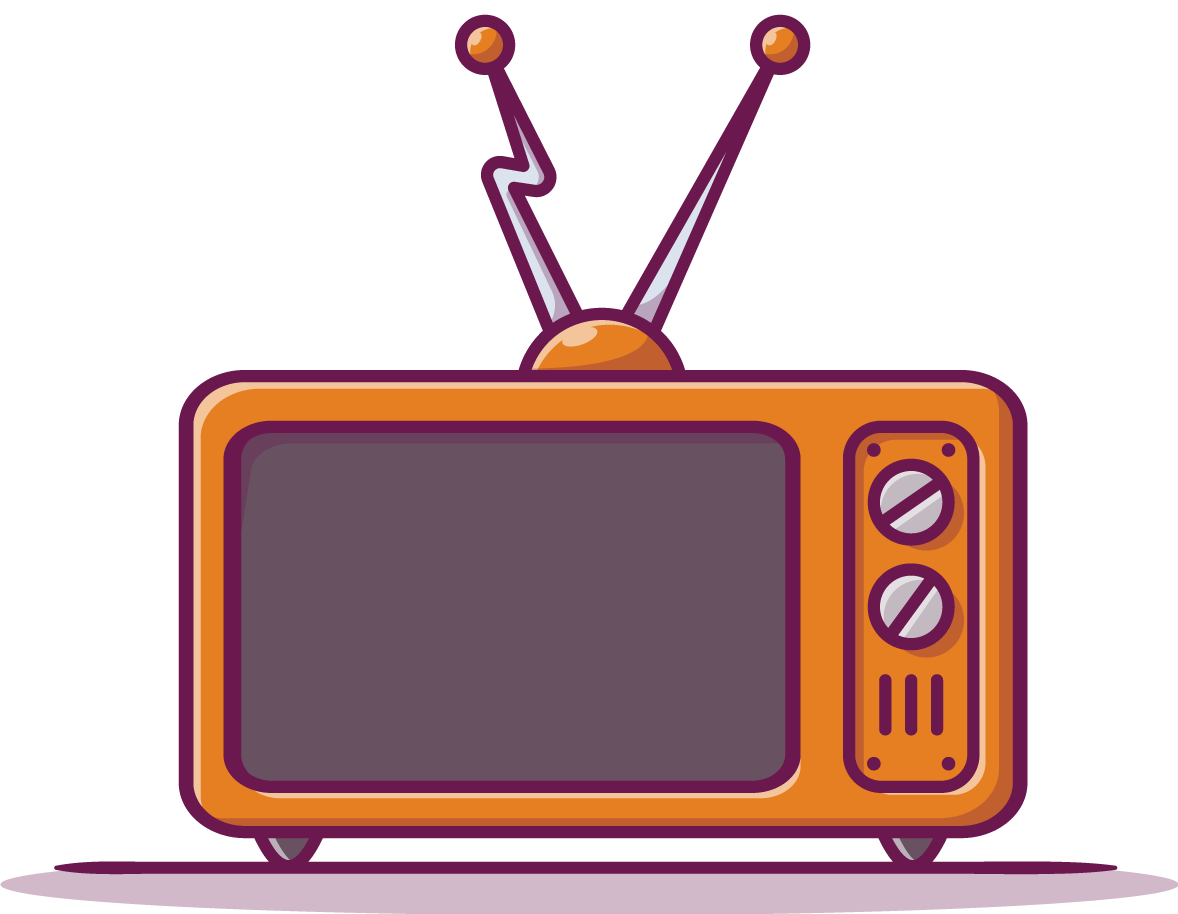
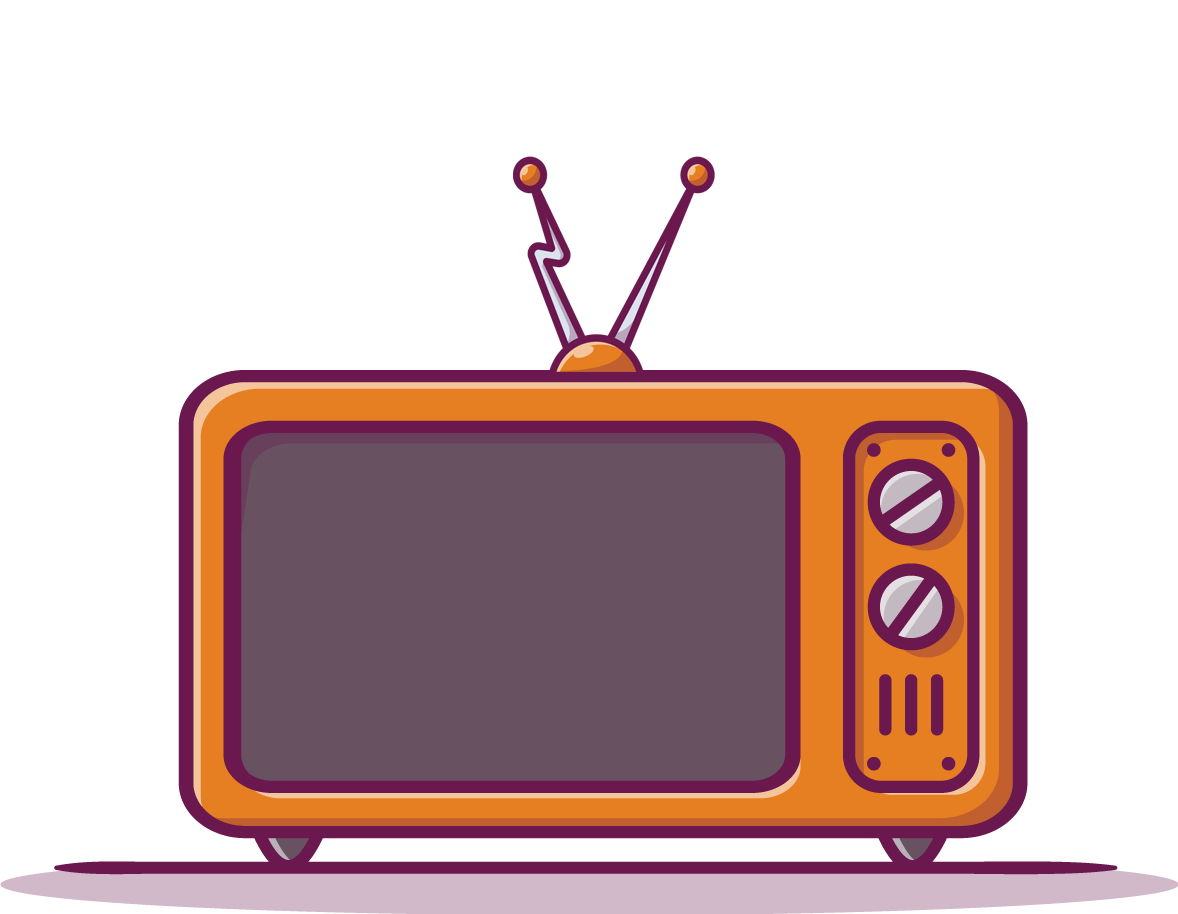
날씨 티비 크기수정

Changed region(s): [[0.3667, 0.0, 0.7029, 0.4289]]

diff --git a/css/index.css b/css/index.css
@@ -17,22 +17,27 @@ body {
   margin-left: 10px;
 }
 
+.container {
+  font-size: 1.3vw;
+}
+
 #weather-info {
+  font-size: 1.3vw;
   margin-top: 20px;
 }
 
 .tv {
   z-index: -1;
   position: absolute;
-  top: 50%;
+  top: 40%;
   left: 50%;
   transform: translate(-50%, -50%);
-  width: 55%;
+  width: 70%;
 }
 
 h2 {
   font-weight: 100;
-  font-size: 2vw;
+  font-size: 3vw;
   font-family: "Black Han Sans", sans-serif;
 }
 
@@ -43,23 +48,23 @@ ul {
 }
 
 .weather_caster {
-  margin-right: 11vw;
+  margin-right: 15vw;
   display: block;
-  width: 8%;
+  width: 10%;
 }
 
 .bubble {
-  top: 42%;
-  width: 10%;
-  right: 41%;
+  top: 40%;
+  width: 13%;
+  right: 38%;
   position: absolute;
 }
 
 .weather_wrap {
   position: relative;
   color: #fff;
-  margin-right: 6.5vw;
-  margin-top: 7vw;
+  margin-right: 8vw;
+  margin-top: 4.5vw;
   height: 100vh;
   display: flex;
   flex-direction: column;
@@ -67,14 +72,16 @@ ul {
   align-items: center;
 }
 .weather-btn {
+  margin-left: 0.2vw;
+  margin-right: 0.2vw;
   margin-top: 2vw;
   position: relative;
   top: -5%;
   border: 3px solid #fff;
   font-size: 0.6vw;
   box-sizing: border-box;
-  width: 3vw;
-  height: 3vw;
+  width: 4vw;
+  height: 4vw;
   border-radius: 50%;
   background-color: #4caf50; /* 기본 배경색 */
   color: white;
